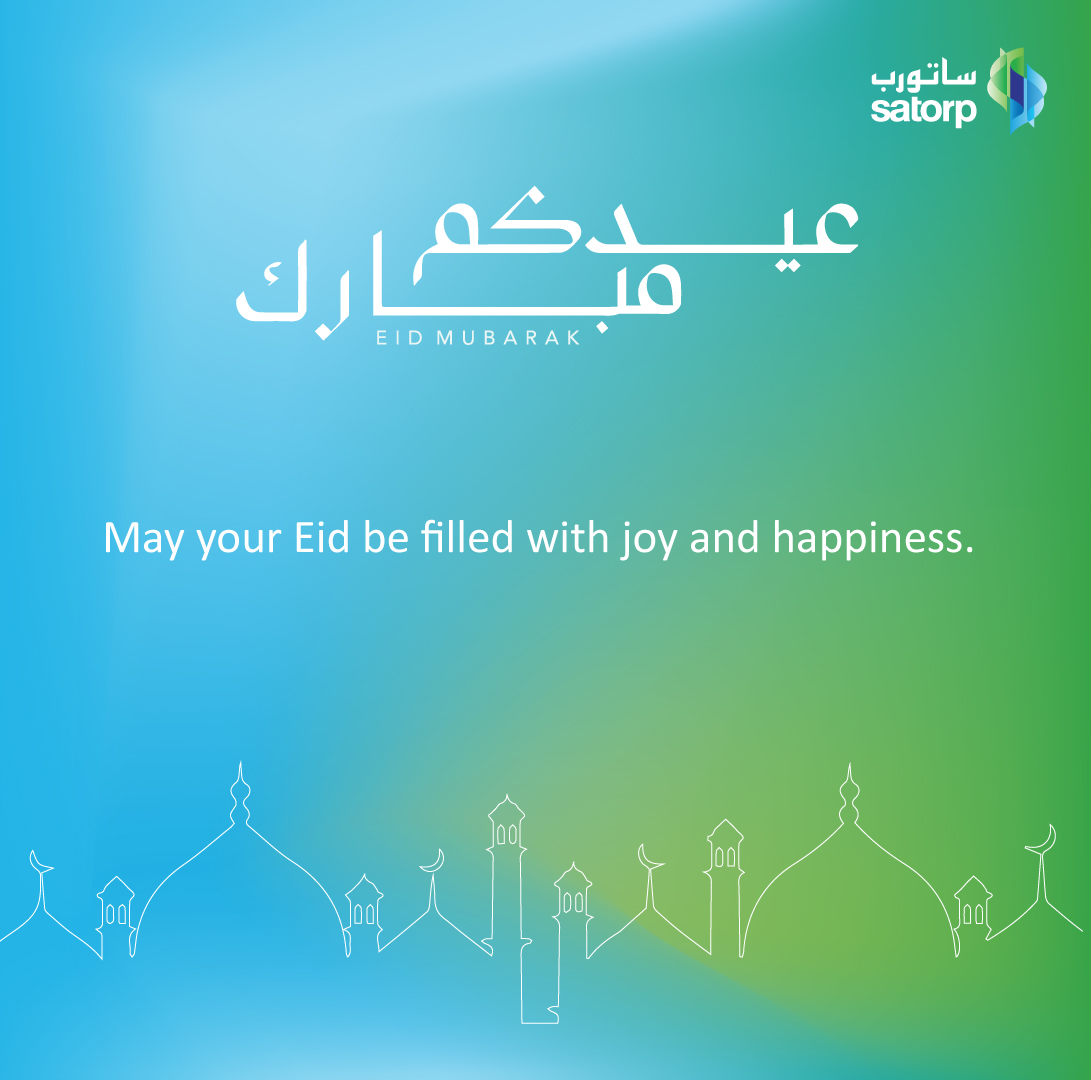
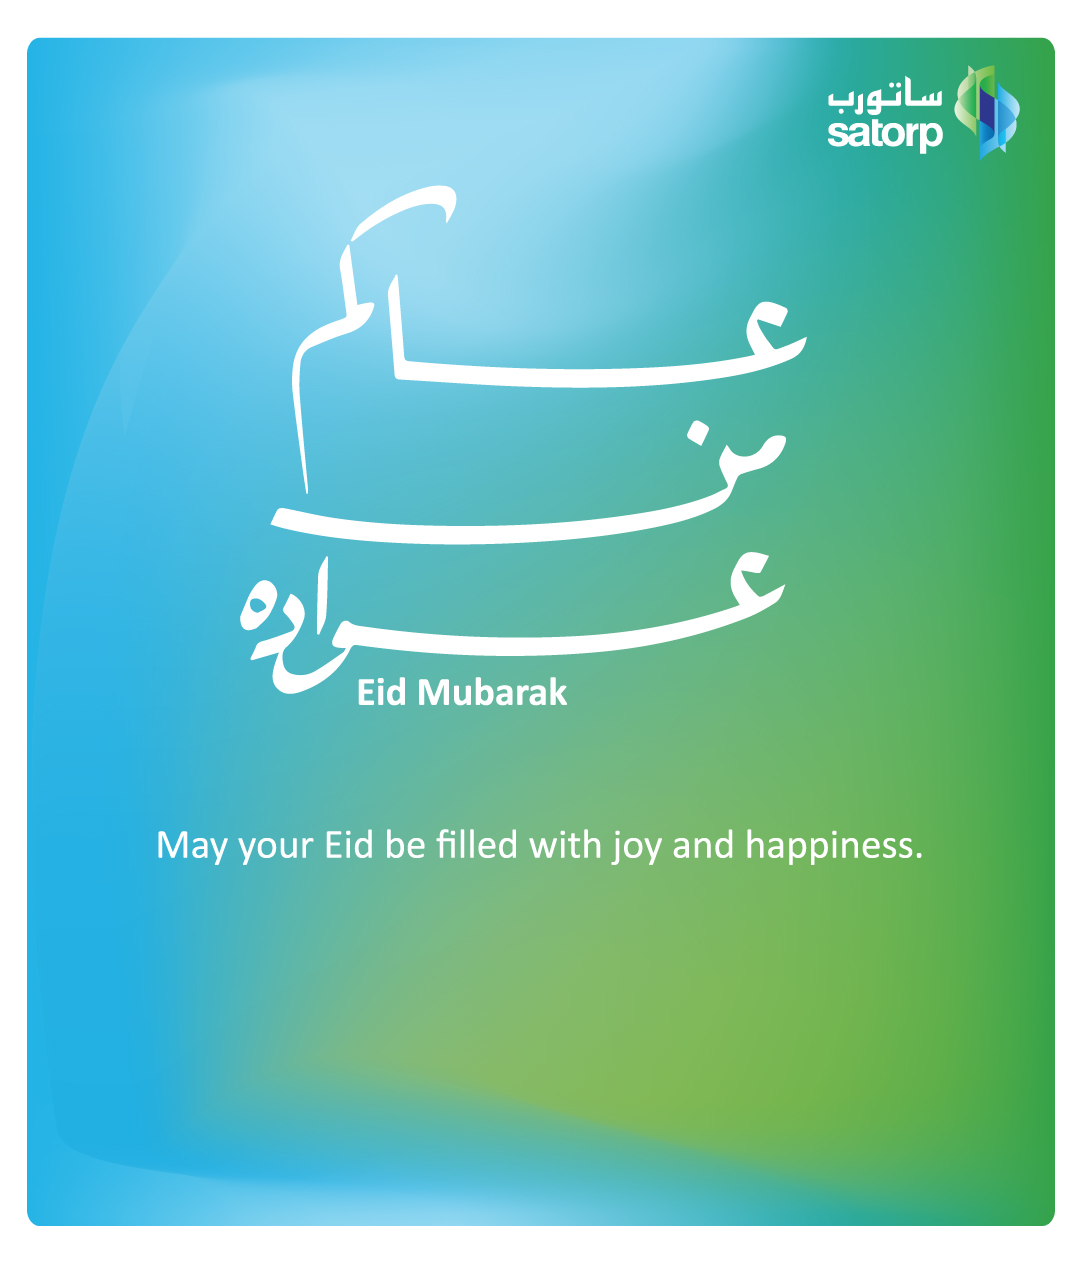
-

diff --git a/assets/js/index.js b/assets/js/index.js
@@ -17,7 +17,7 @@ imageObj.onload = function() {
 };
 
 
-imageObj.src = "assets/images/employee-Eid-Greetings-Arabic.jpg";
+imageObj.src = "assets/images/employee-Eid-Greetings-Arabic-.jpg";
 
 function DownloadCanvasAsImage(){
     let imageName = "moa3aydah.png";
@@ -41,11 +41,11 @@ downloadCardButton.addEventListener('click', function(e){
     var text = document.getElementById('name').value;
 
    
-    context.font = "40pt Bahij";
+    context.font = "35pt Bahij";
     context.textAlign = 'center';
     context.fillStyle = '#FFFFFF';
     var textX = imageWidth / 2; 
-    var textY = 700; 
+    var textY = 900; 
 
 
     context.fillText(text, textX, textY);

diff --git a/assets/js/en.js b/assets/js/en.js
@@ -37,14 +37,14 @@ downloadCardButton.addEventListener('click', function(e){
 
    
     context.textAlign = 'center';
-    context.font = "40pt Calibri";
+    context.font = "35pt Calibri";
 
 
     context.fillStyle = '#FFFFFF';
 
    
     var textWidth = canvasWidth / 2;
-    var textHeight = canvasHeight - 400; 
+    var textHeight = canvasHeight - 200; 
     
     context.fillText(text, textWidth, textHeight);
 
